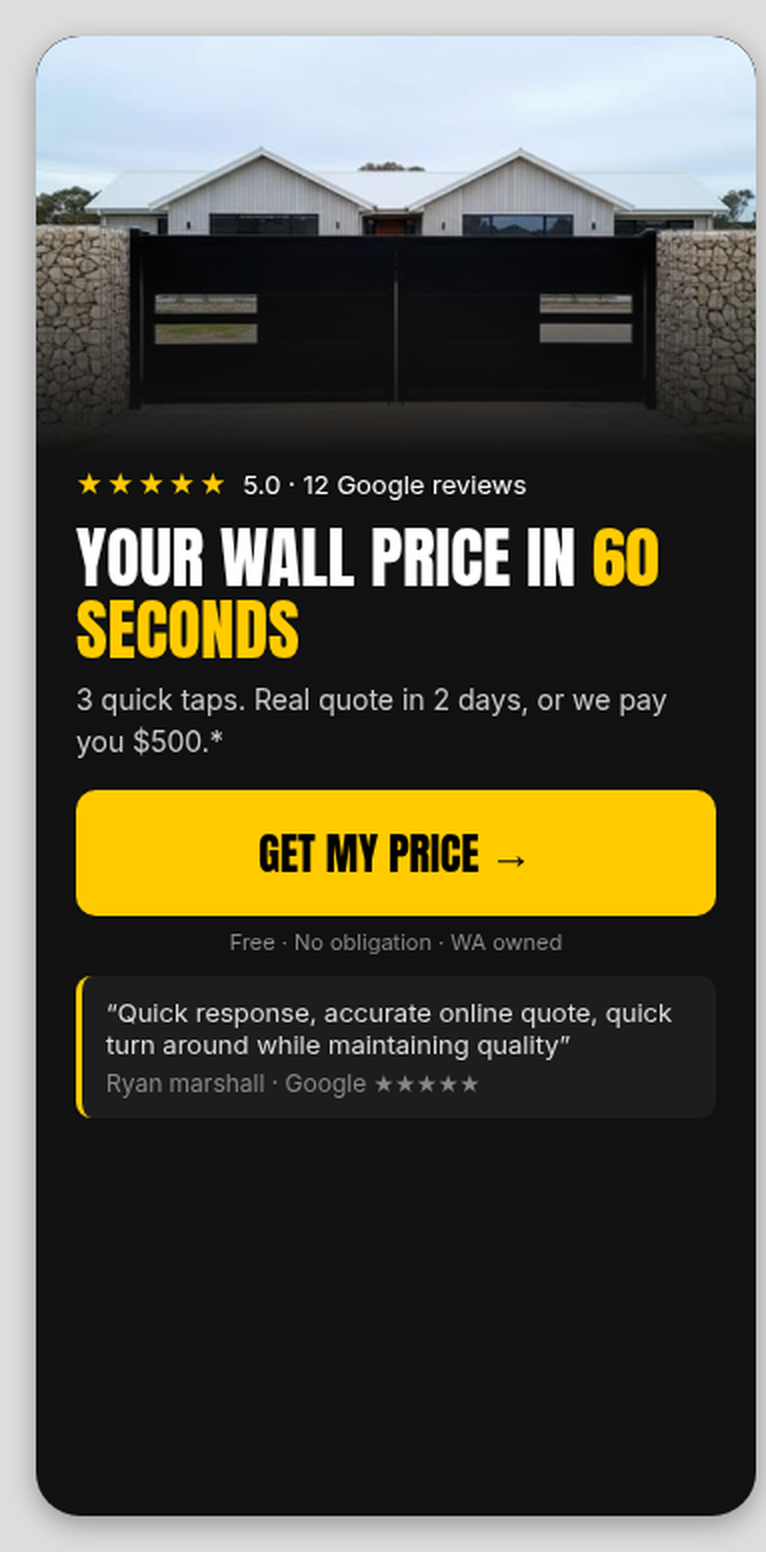
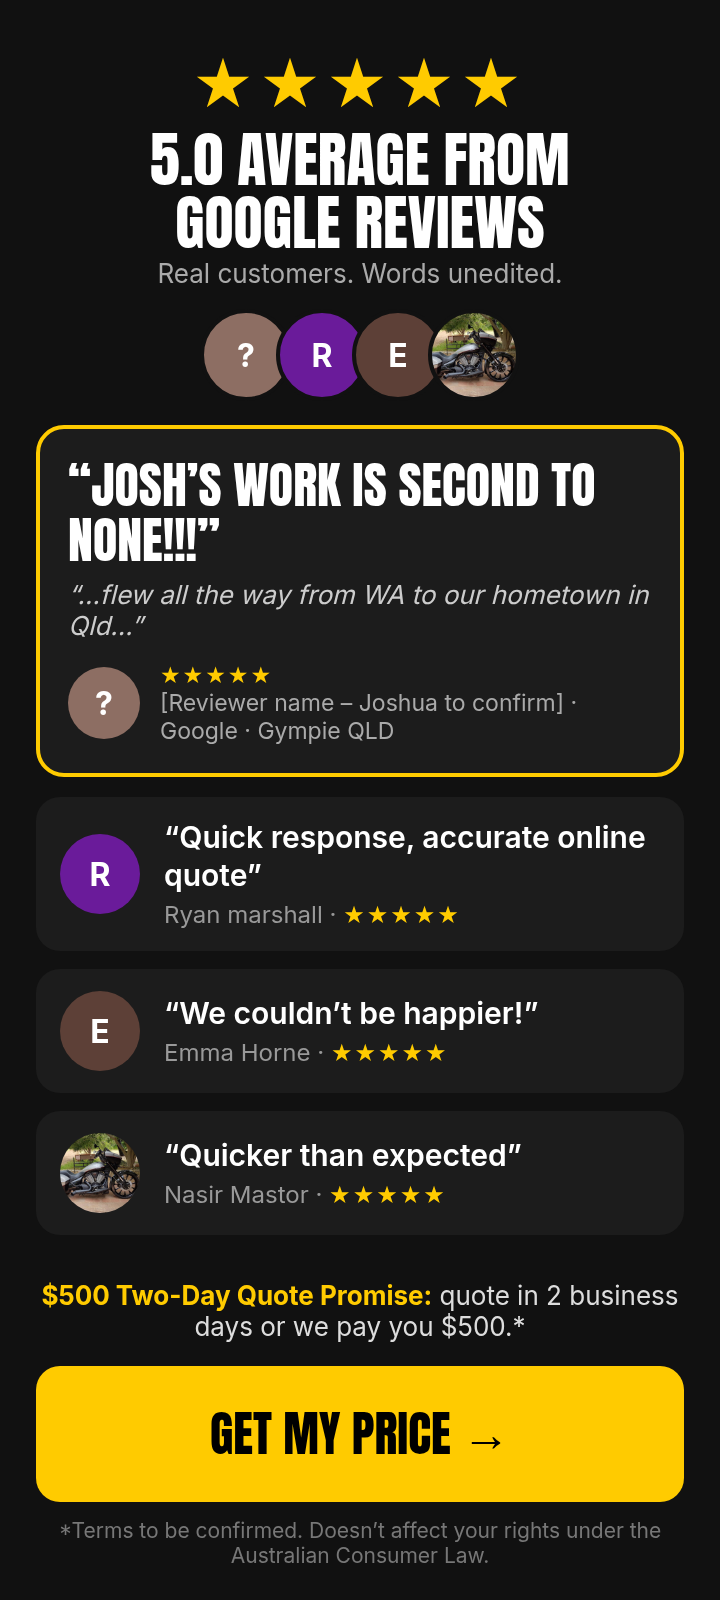
Quiz plan screen 1: reviews as hero, Gympie lead testimonial, verbatim snippets

diff --git a/quiz-plan/screen1.html b/quiz-plan/screen1.html
@@ -1,0 +1,28 @@
+<html><head><meta charset="utf-8"><link href="https://fonts.googleapis.com/css2?family=Anton&family=Inter:wght@400;600;700&display=swap" rel="stylesheet"><style>
+body{margin:0;background:#111;font-family:Inter,sans-serif;color:#fff}
+.s{width:360px;height:800px;padding:22px 18px 16px;box-sizing:border-box;display:flex;flex-direction:column}
+.big{font:400 34px/1 Anton;color:#FFCB00;letter-spacing:3px;text-align:center}
+.avg{font:400 30px/1.05 Anton;text-transform:uppercase;text-align:center;margin:8px 0 2px}
+.sub{font-size:13px;color:#aaa;text-align:center}
+.row{display:flex;justify-content:center;margin:10px 0 12px}
+.av{width:42px;height:42px;border-radius:50%;border:2px solid #111;margin-left:-8px;display:flex;align-items:center;justify-content:center;font:700 16px Inter;color:#fff;background-size:cover;background-position:center;flex:none}
+.row .av:first-child{margin-left:0}
+.c{display:flex;gap:12px;align-items:center;background:#1c1c1c;border-radius:12px;padding:11px 12px;margin-bottom:9px}
+.c .av{width:40px;height:40px;margin:0;border:none}
+.q{font:600 15px/1.25 Inter}.n{font-size:12px;color:#999;margin-top:3px}.n b{color:#FFCB00;font-weight:400;letter-spacing:1px}
+.pr{font-size:13px;text-align:center;color:#ddd;margin:8px 0 0}.pr b{color:#FFCB00}
+.btn{background:#FFCB00;color:#000;font:400 24px Anton;text-transform:uppercase;text-align:center;padding:16px;border-radius:12px;margin-top:12px}
+.fine{font-size:10.5px;color:#777;text-align:center;margin-top:8px}
+.lead{background:#1c1c1c;border:2px solid #FFCB00;border-radius:14px;padding:14px;margin-bottom:10px}.lq{font:400 25px/1.1 Anton;text-transform:uppercase}.lctx{font-size:13px;color:#ccc;margin:6px 0 10px;font-style:italic}.ln{display:flex;gap:10px;align-items:center;font-size:11.5px;color:#aaa}.st{color:#FFCB00;font-weight:400;letter-spacing:1px}
+</style></head><body><div class="s">
+<div class="big">★★★★★</div><div class="avg">5.0 average from<br>Google reviews</div><div class="sub">Real customers. Words unedited.</div>
+<div class="row"><div class="av" style="background:#8d6e63">?</div><div class="av" style="background:#6a1b9a">R</div><div class="av" style="background:#5d4037">E</div><div class="av" style="background-image:url(img/nasir-mastor.jpg)"></div></div>
+<div class="lead"><div class="lq">“Josh’s work is second to none!!!”</div><div class="lctx">“…flew all the way from WA to our hometown in Qld…”</div><div class="ln"><div class="av" style="background:#8d6e63;width:36px;height:36px;border:none;margin:0">?</div><div><b class="st">★★★★★</b><br>[Reviewer name – Joshua to confirm] · Google · Gympie QLD</div></div></div>
+<div class="c"><div class="av" style="background:#6a1b9a">R</div><div><div class="q">“Quick response, accurate online quote”</div><div class="n">Ryan marshall · <b>★★★★★</b></div></div></div>
+<div class="c"><div class="av" style="background:#5d4037">E</div><div><div class="q">“We couldn’t be happier!”</div><div class="n">Emma Horne · <b>★★★★★</b></div></div></div>
+<div class="c"><div class="av" style="background-image:url(img/nasir-mastor.jpg)"></div><div><div class="q">“Quicker than expected”</div><div class="n">Nasir Mastor · <b>★★★★★</b></div></div></div>
+<div style="flex:1"></div>
+<div class="pr"><b>$500 Two-Day Quote Promise:</b> quote in 2 business days or we pay you $500.*</div>
+<div class="btn">Get my price →</div>
+<div class="fine">*Terms to be confirmed. Doesn’t affect your rights under the Australian Consumer Law.</div>
+</div></body></html>

diff --git a/quiz-plan/README.md b/quiz-plan/README.md
@@ -2,15 +2,32 @@
 
 Gabion Fabrication, WA. Mobile-first, dark background, Anton headlines, Inter body, one yellow (#FFCB00) button per screen, one message per screen. Draft plan only, not live.
 
-## Screen 1: Welcome
+## Screen 1: Welcome (reviews are the hero)
 ![Screen 1](screen1.png)
-- Gabion entry photo at the top.
-- ★★★★★ 5.0 · 12 Google reviews
-- Headline: **YOUR WALL PRICE IN 60 SECONDS**
-- Subhead: 3 quick taps. Real quote in 2 days, or we pay you $500.* (The $500 Two-Day Quote Promise)
-- Button: **GET MY PRICE →**
-- Under button: Free · No obligation · WA owned
-- Review: "Quick response, accurate online quote, quick turn around while maintaining quality" (Ryan marshall)
+
+Source mockup: `screen1.html` (360×800, rendered at 2x).
+
+- Top: big **★★★★★ 5.0 average from Google reviews**. Under it: "Real customers. Words unedited."
+- A row of reviewer avatars.
+- **Lead testimonial (yellow-bordered card):** "Josh's work is second to none!!!", with the excerpt "…flew all the way from WA to our hometown in Qld…" under it.
+  - The reviewer is the Gympie (QLD) customer. **Her name and photo still need confirming with Joshua**: aggregator sites show the text but not her name.
+- 3 snippet cards. Each has the reviewer's face or initials, their name and 5 stars:
+  - "Quick response, accurate online quote" (Ryan marshall)
+  - "We couldn't be happier!" (Emma Horne)
+  - "Quicker than expected" (Nasir Mastor)
+- One smaller line: **$500 Two-Day Quote Promise:** quote in 2 business days or we pay you $500.*
+- Yellow #FFCB00 button: **GET MY PRICE →**
+- Fine print: *Terms to be confirmed. Doesn't affect your rights under the Australian Consumer Law.
+
+**Rules for review snippets (Australian Consumer Law, fake reviews):**
+- Every snippet is a word-for-word excerpt from that person's real 5★ review.
+- Don't rewrite them.
+- Don't use the review posted under the owner's name (Joshua Cappello).
+
+**Avatars:**
+- Nasir Mastor's avatar is his real Google profile photo, via Trustindex.
+- The others have Google letter avatars, so they're shown as initials circles.
+- No stock faces.
 
 ## Screen 2: What kind of wall?
 ![Screen 2](screen2.png)
